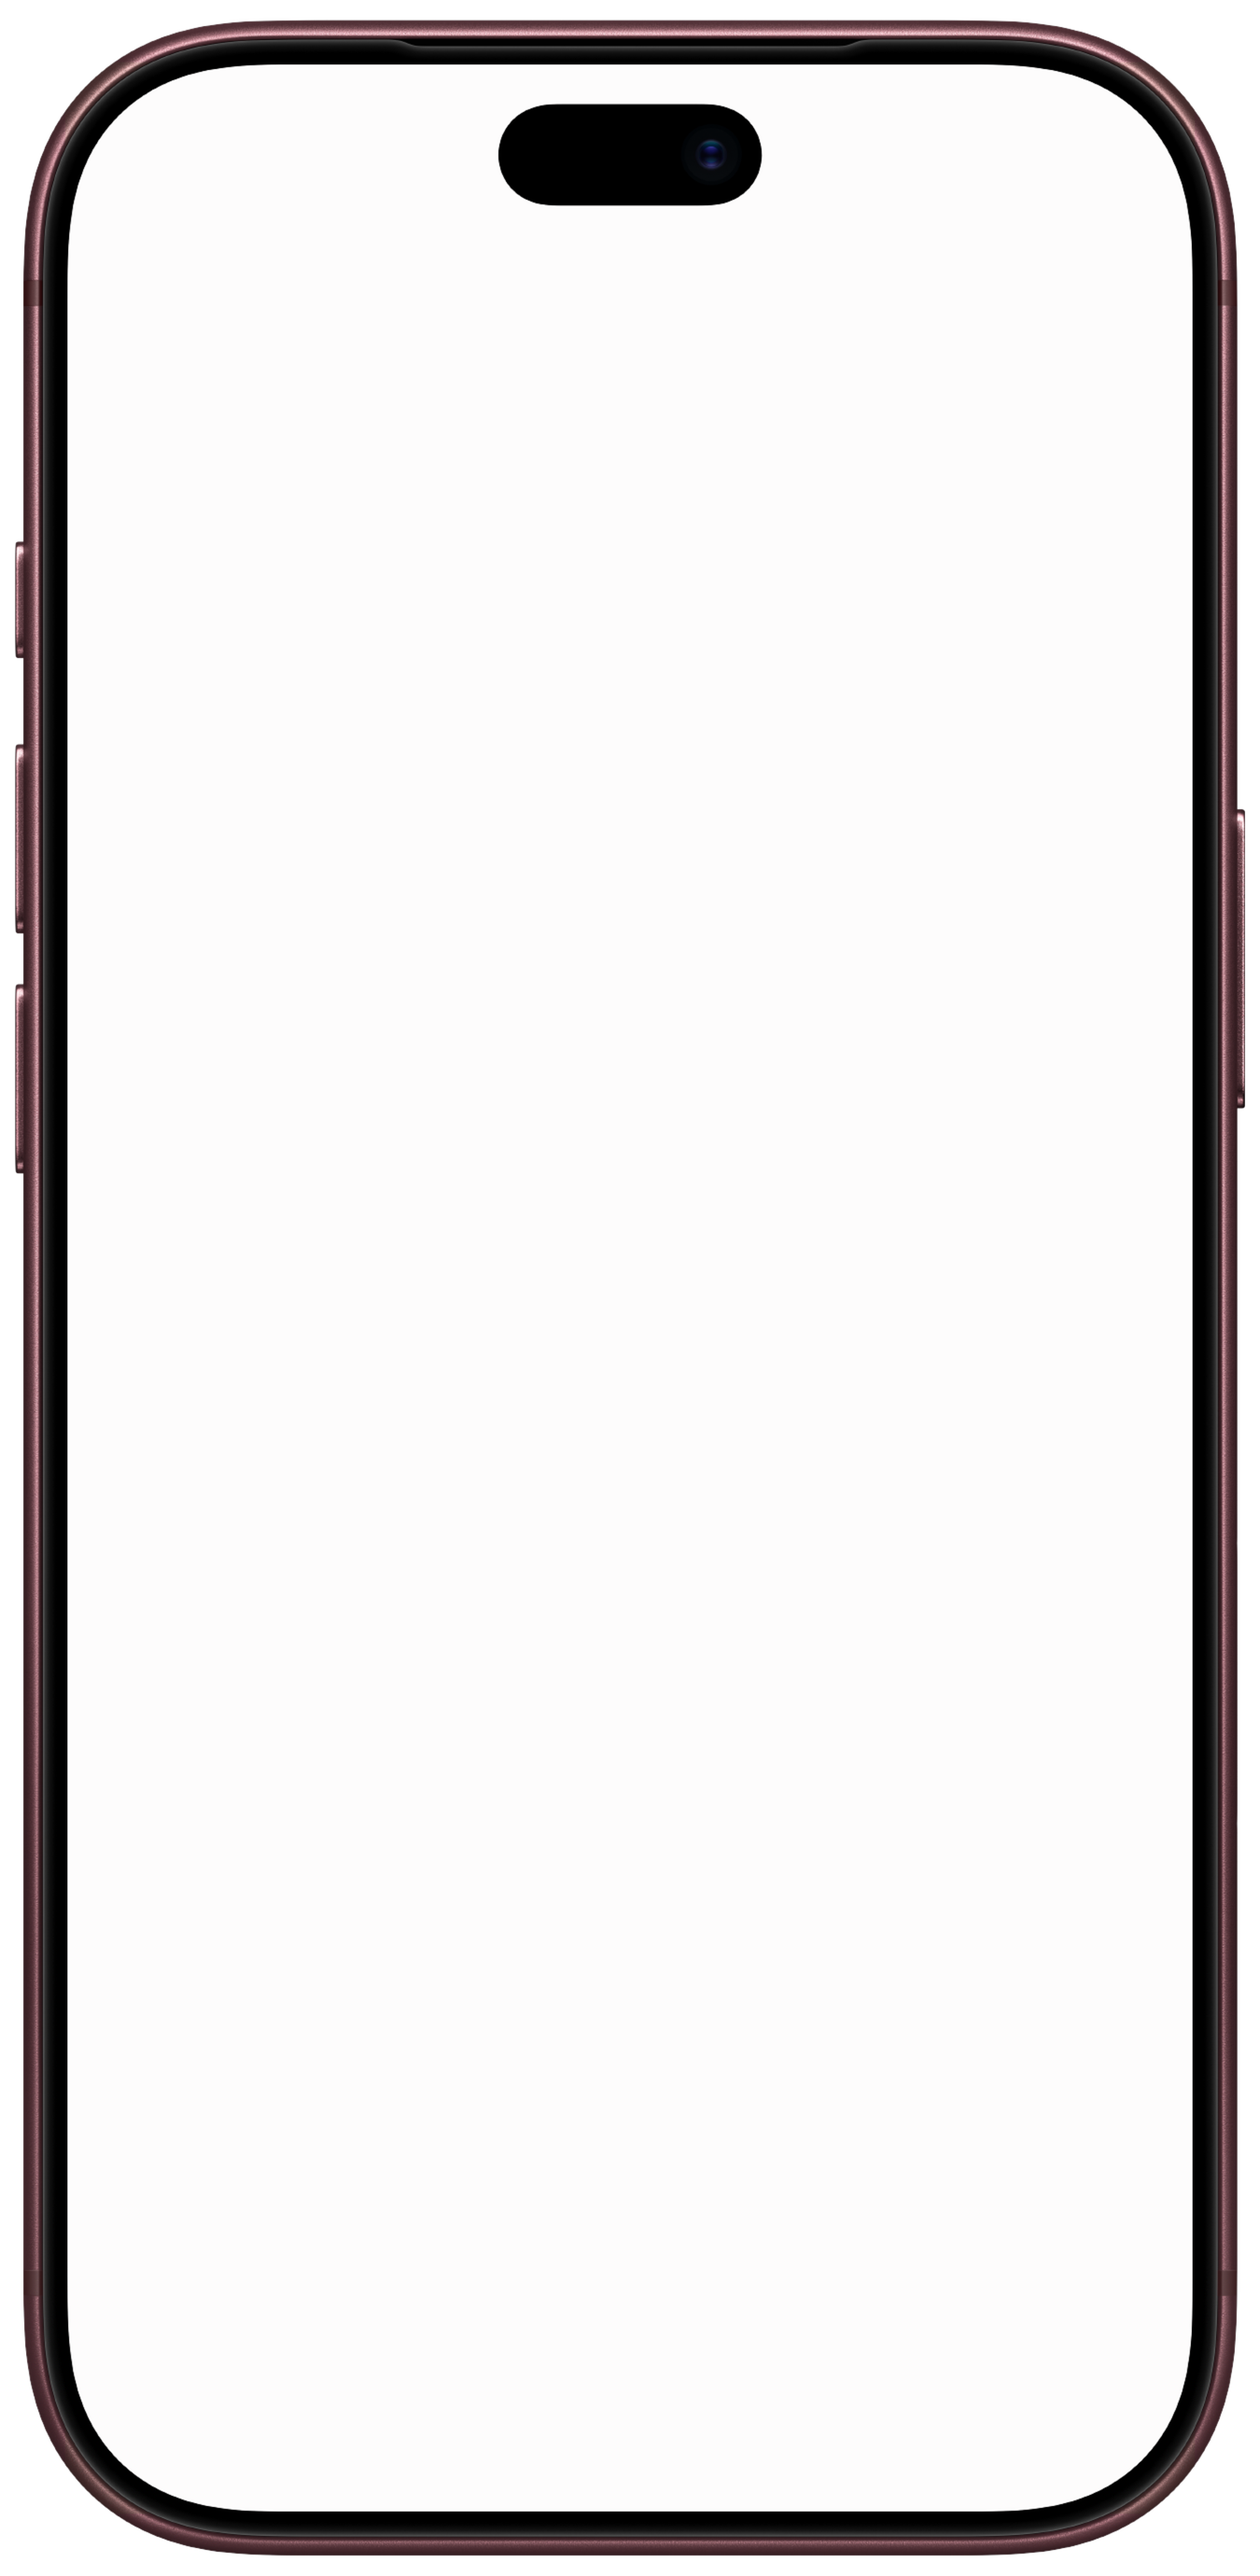
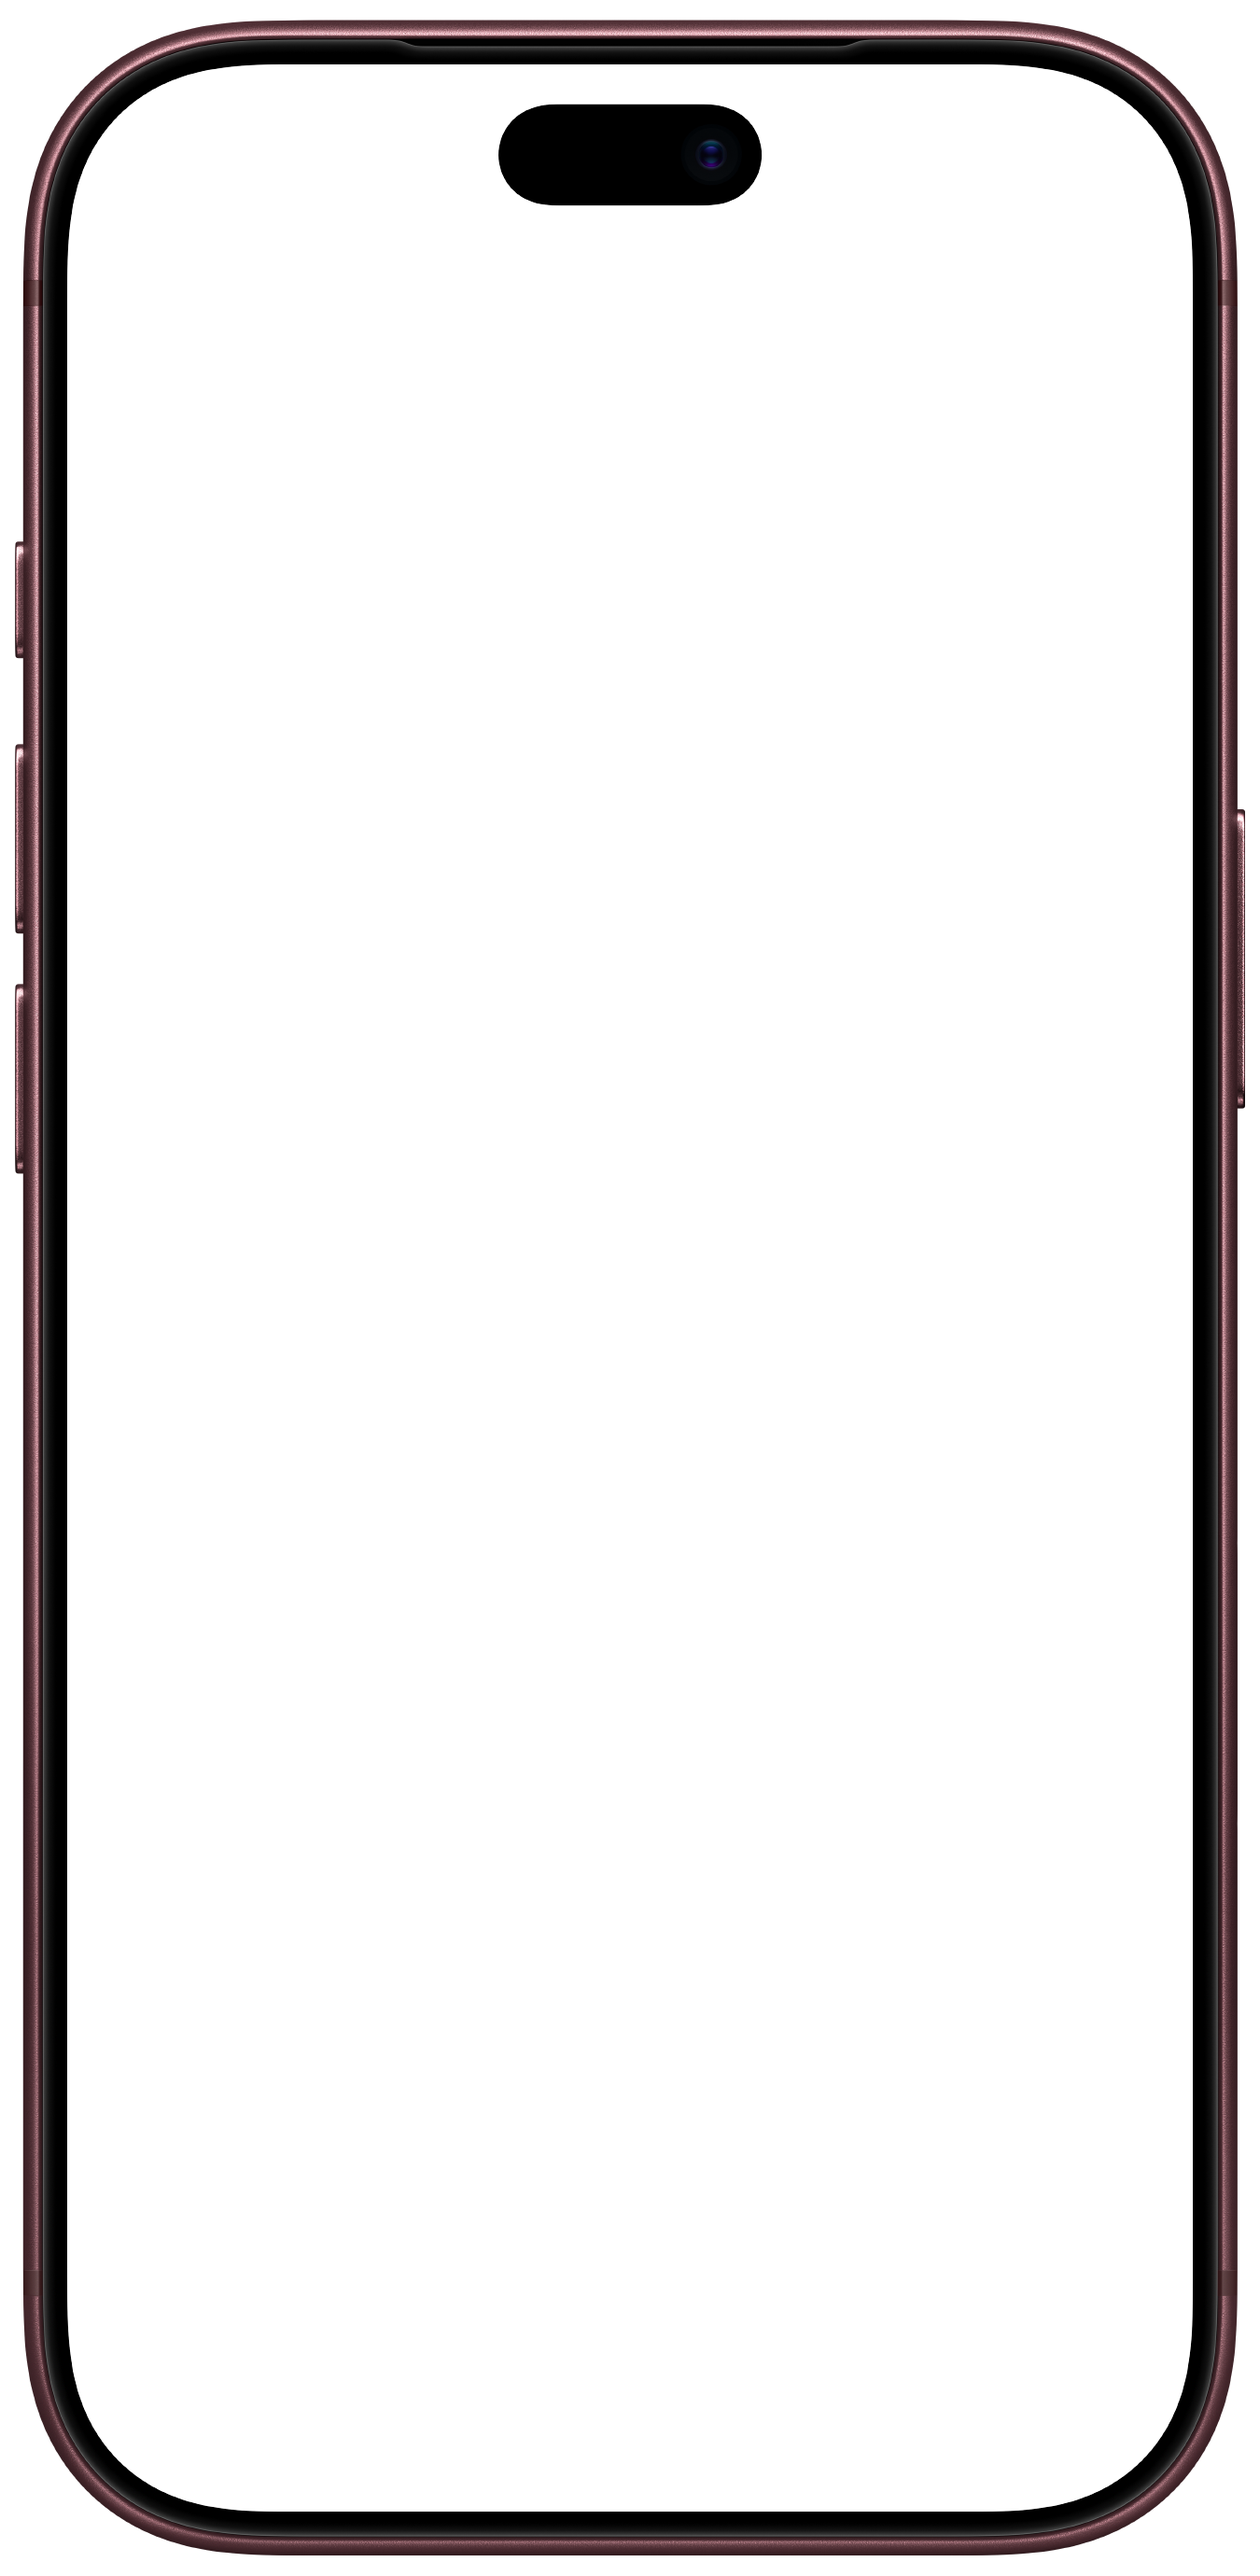
fix: iPhone 18 Pro Burgundy bezel from the bezel kit
The Screeny render is replaced by the kit's own PNG, whose window is the
17 Pro's to the pixel.

diff --git a/docs/CARDS.md b/docs/CARDS.md
@@ -131,7 +131,7 @@ Measure the window off the PNG once. `radiusX` and `radiusY` resolve against the
 
 A `frame` with a `/` is resolved against **the repo**, like every other image in a storyboard — `store/art/iphone-17-pro.png` is a repo's own PNG, for a bezel no other app on appkit ships. A bare filename instead resolves against appkit's own `render/bezels/` — `iphone-17-pro-blue.png`, `iphone-18-pro-burgundy.png` and `apple-watch-s11-42mm-silver-forest.png` are photographed once, pinned in appkit the way the capture device itself is, so no repo keeps a copy or writes a path to reach one.
 
-`iphone-18-pro-burgundy.png` is Screeny's bezel, rendered over a magenta screen and keyed out — the same phone a repo that frames its previews in Screeny shows there. Its window is `left 5.394, top 2.517, width 89.212, height 94.965`, measured off the magenta; 6/6 still fits.
+`iphone-18-pro-burgundy.png` comes from the same kit as the 17 Pro and its window is the same pixels, so a storyboard swaps one for the other by the filename alone.
 
 The Apple Watch model leaves the band off deliberately: a band is a second material, a second colour choice and a second asset, and the card is about what is on the screen.
 
